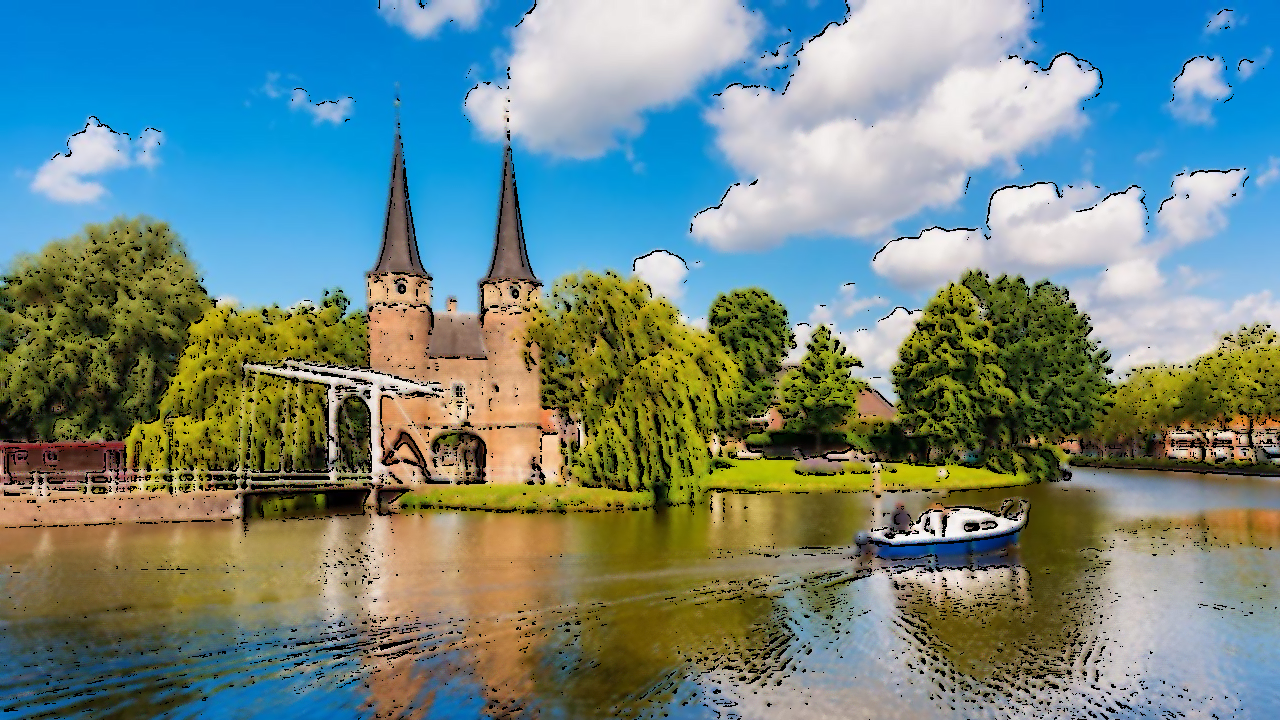
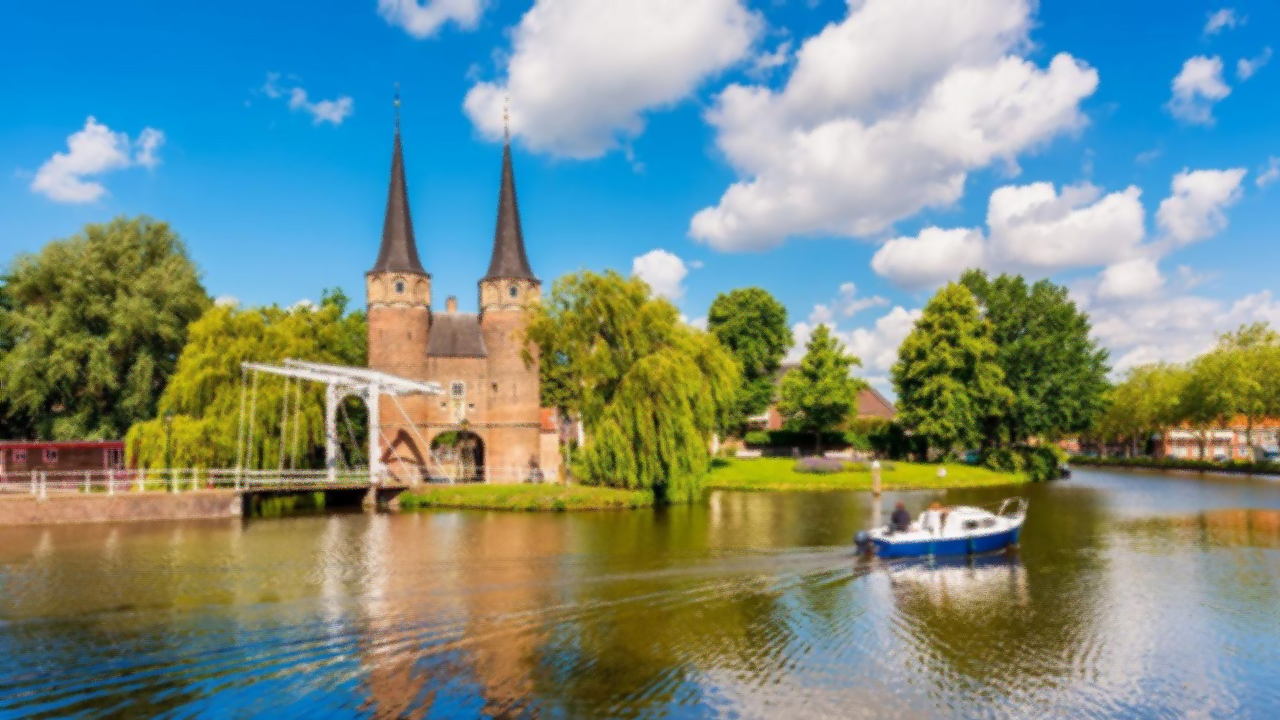
Pass streamulator, but few rows output on real stream

diff --git a/hls/cartoonize_pipeline.cpp b/hls/cartoonize_pipeline.cpp
@@ -27,22 +27,36 @@ static void axis_to_pixel(axis_stream &s_axis, pixel_stream &dst) {
     dst << p;
 }
 
-static void bitwise_and_mask(pixel_stream &color, pixel_stream &mask, pixel_stream &dst) {
+// FIX: Single output selection function that ALWAYS reads from both streams
+// This ensures every stream has exactly one consumer in the DATAFLOW region
+static void select_output(pixel_stream &color, pixel_stream &mask, pixel_stream &dst,
+                         bool use_mask, bool use_gray) {
     #pragma HLS INLINE off
     #pragma HLS PIPELINE II=1
+    
     pixel_data p_color, p_mask, p_out;
+    
+    // CRITICAL: Always read from BOTH streams to ensure they are consumed
     color >> p_color;
     mask >> p_mask;
-
-    uint8_t mask_val = (uint8_t)(p_mask.data & 0xFF);
-
-    p_out = p_color;
-    if (mask_val > 0) {
-        p_out.data = p_color.data;
+    
+    if (use_mask) {
+        // Apply mask to color (bitwise AND operation)
+        uint8_t mask_val = (uint8_t)(p_mask.data & 0xFF);
+        p_out = p_color;
+        if (mask_val > 0) {
+            p_out.data = p_color.data;
+        } else {
+            p_out.data = (p_color.data & 0xFF000000);
+        }
+    } else if (use_gray) {
+        // Output grayscale path result (mask stream contains gray data when not masking)
+        p_out = p_mask;
     } else {
-        p_out.data = (p_color.data & 0xFF000000);
+        // Output color path result
+        p_out = p_color;
     }
-
+    
     dst << p_out;
 }
 
@@ -72,7 +86,7 @@ void pixel_passthrough(pixel_stream &src, pixel_stream &dst) {
     dst << p;
 }
 
-void cartoonize_pipeline_v2(axis_stream &src, axis_stream &dst,
+void cartoonize_pipeline_sel(axis_stream &src, axis_stream &dst,
                             uint32_t mode) {
     #pragma HLS INTERFACE axis port=src
     #pragma HLS INTERFACE axis port=dst
@@ -80,6 +94,7 @@ void cartoonize_pipeline_v2(axis_stream &src, axis_stream &dst,
     #pragma HLS INTERFACE ap_ctrl_none port=return
     #pragma HLS DATAFLOW disable_start_propagation
 
+    // Mode flags
     bool en_bilateral = false;
     bool en_gray      = false;
     bool en_median    = false;
@@ -90,6 +105,7 @@ void cartoonize_pipeline_v2(axis_stream &src, axis_stream &dst,
     switch ((FilterMode)mode) {
 
     case MODE_NONE:
+        // All passthrough - output color
         break;
 
     case MODE_BILATERAL:
@@ -107,9 +123,10 @@ void cartoonize_pipeline_v2(axis_stream &src, axis_stream &dst,
         out_gray  = true;
         break;
 
-    case MODE_GRAY_MEDIAN:
+    case MODE_ADAPTIVE_THRESHOLD:
         en_gray   = true;
         en_median = true;
+        en_thresh  = true;
         out_gray  = true;
         break;
 
@@ -125,6 +142,7 @@ void cartoonize_pipeline_v2(axis_stream &src, axis_stream &dst,
         break;
     }
 
+    // Stream declarations
     pixel_stream in_pix("in_pix");
     pixel_stream out_pix("out_pix");
     #pragma HLS STREAM variable=in_pix depth=64
@@ -144,37 +162,41 @@ void cartoonize_pipeline_v2(axis_stream &src, axis_stream &dst,
     #pragma HLS STREAM variable=median_stream depth=64
     #pragma HLS STREAM variable=mask_stream depth=64
 
+    // Input conversion
     axis_to_pixel(src, in_pix);
 
+    // Split input to both paths
     duplicate_stream(in_pix, raw_to_bilateral, raw_to_gray);
 
+    // Color path: bilateral filter or passthrough
     if (en_bilateral)
         bilateral_filter(raw_to_bilateral, color_stream);
     else
         pixel_passthrough(raw_to_bilateral, color_stream);
 
+    // Grayscale path: grayscale conversion or passthrough
     if (en_gray)
         grayscale(raw_to_gray, gray_stream);
     else
         pixel_passthrough(raw_to_gray, gray_stream);
 
+    // Grayscale path: median blur or passthrough
     if (en_median)
         median_blur(gray_stream, median_stream);
     else
         pixel_passthrough(gray_stream, median_stream);
 
+    // Grayscale path: adaptive threshold or passthrough
     if (en_thresh)
         adaptive_threshold(median_stream, mask_stream);
     else
         pixel_passthrough(median_stream, mask_stream);
 
-    if (en_mask)
-        bitwise_and_mask(color_stream, mask_stream, out_pix);
-    else if (out_gray)
-        pixel_passthrough(median_stream, out_pix);
-    else
-        pixel_passthrough(color_stream, out_pix);
+    // FIX: Use single output selector that reads from BOTH color_stream and mask_stream
+    // This ensures both streams are always consumed exactly once
+    select_output(color_stream, mask_stream, out_pix, en_mask, out_gray);
 
+    // Output conversion
     pixel_to_axis(out_pix, dst);
 }
 
@@ -183,9 +205,9 @@ void stream(pixel_stream &src, pixel_stream &dst, int frame) {
     axis_stream axis_src("axis_src");
     axis_stream axis_dst("axis_dst");
 
-    uint32_t mode = MODE_FULL_CARTOON;
+    uint32_t mode = MODE_BILATERAL;
 
     pixel_to_axis(src, axis_src);
-    cartoonize_pipeline_v2(axis_src, axis_dst, mode);
+    cartoonize_pipeline_sel(axis_src, axis_dst, mode);
     axis_to_pixel(axis_dst, dst);
 }

diff --git a/hls/cartoonize_pipeline.h b/hls/cartoonize_pipeline.h
@@ -18,7 +18,7 @@ void pixel_passthrough(pixel_stream &src, pixel_stream &dst);
 void median_blur_adaptive_threshold(pixel_stream &src, pixel_stream &dst);
 
 // Full cartoonize pipeline: bilateral color smoothing + edge mask + composite
-void cartoonize_pipeline_v2(axis_stream &src, axis_stream &dst, uint32_t mode);
+void cartoonize_pipeline_sel(axis_stream &src, axis_stream &dst, uint32_t mode);
 
 // Top-level entry for streamulator/testbench
 void stream(axis_stream &src, axis_stream &dst, int frame);
@@ -29,7 +29,7 @@ enum FilterMode : uint32_t {
     MODE_BILATERAL         = 1, // bilateral only
     MODE_GRAYSCALE         = 2, // grayscale only
     MODE_MEDIAN            = 3, // median only (on grayscale path)
-    MODE_GRAY_MEDIAN       = 4, // grayscale + median
+    MODE_ADAPTIVE_THRESHOLD = 4, // grayscale + median + threshold
     MODE_FULL_CARTOON      = 5  // bilateral + grayscale + median + threshold + mask
 };
 
